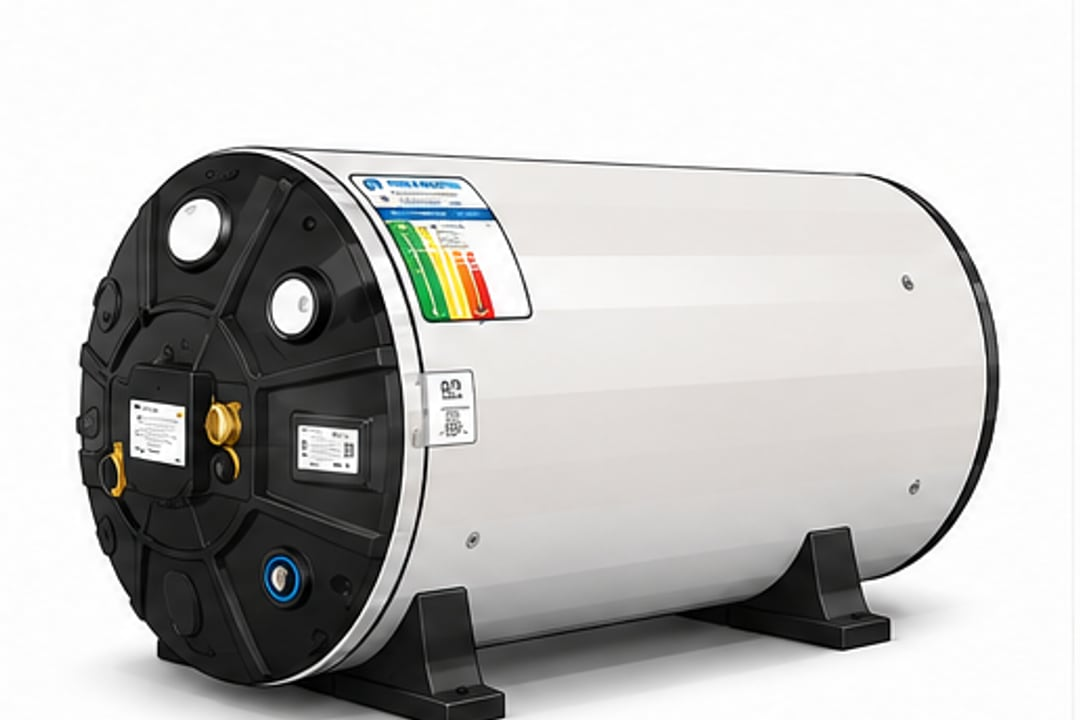
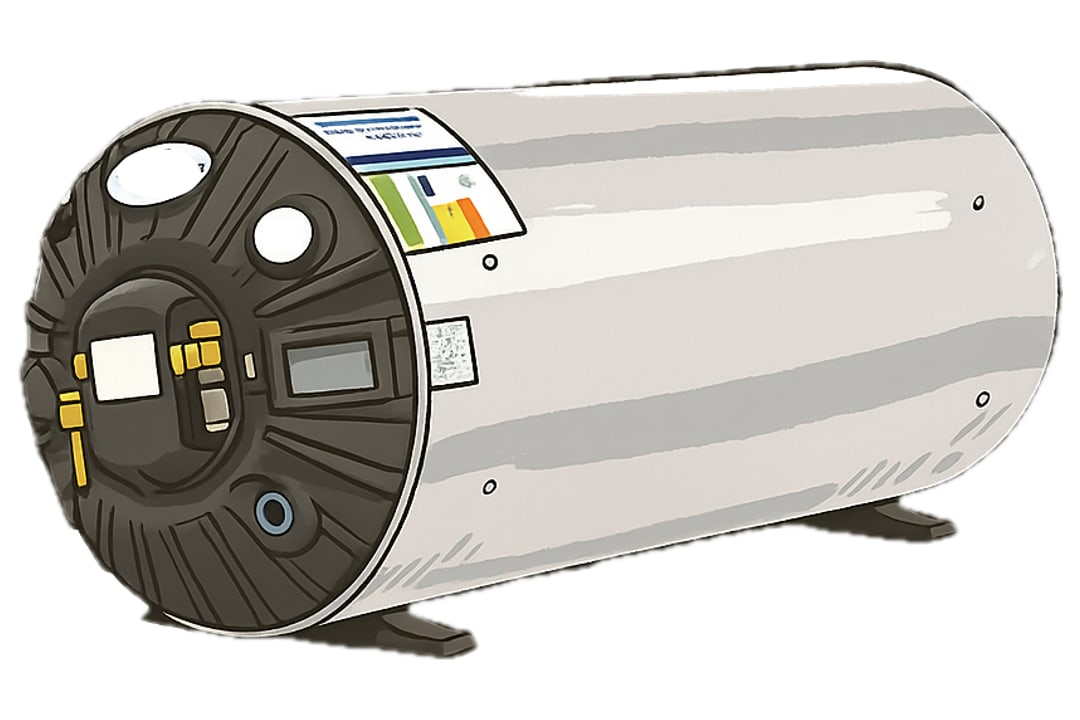
Cleanup30August2026
Geyser Replacement logos
home flow
Smart Geyser  pictures and details

diff --git a/design-export/website/GeyserReplacementsPage.jsx b/design-export/website/GeyserReplacementsPage.jsx
@@ -55,7 +55,7 @@ const GR_SLIDES = [
     label: 'Capacity',
     title: 'The right size, for the number of people who shower',
     body: 'Roughly 35 to 50 litres of hot water per person, and around 70% of South African homes run a 150 litre cylinder. Step 3 asks how many people shower, which is the same question the useful way round.',
-    alt: 'A horizontal electric hot water cylinder on mounting feet, with the element cover, thermostat access and energy rating label visible.'
+    alt: 'An electric hot water cylinder on mounting feet, showing the element cover plate, thermostat access and the energy rating label.'
   },
   {
     image: '/assets/illustrations/geyser-hero-2-pressure.jpg',
@@ -86,7 +86,7 @@ function GrCarousel() {
   React.useEffect(function () {
     if (paused) return;
     if (typeof window !== 'undefined' && window.matchMedia && window.matchMedia('(prefers-reduced-motion: reduce)').matches) return;
-    const t = setTimeout(function () { setI(function (v) { return (v + 1) % count; }); }, 6500);
+    const t = setTimeout(function () { setI(function (v) { return (v + 1) % count; }); }, 5200);
     return function () { clearTimeout(t); };
   }, [i, paused, count]);
 
@@ -100,7 +100,6 @@ function GrCarousel() {
   };
 
   return <div role="group" aria-roledescription="carousel" aria-label="Geyser sizing, pressure and the result"
-    onMouseEnter={function () { setPaused(true); }} onMouseLeave={function () { setPaused(false); }}
     onFocus={function () { setPaused(true); }} onBlur={function () { setPaused(false); }}
     style={{ background: '#fff', border: '1px solid rgba(255,255,255,.22)', borderRadius: 4, overflow: 'hidden' }}>
 
@@ -191,55 +190,46 @@ const GR_CAPACITIES = [50, 100, 150, 200, 250];
 const GR_HOUSEHOLD_FOR = { 50: '1 person', 100: '2 people', 150: '3 to 4 people', 200: '4 to 5 people', 250: '5 to 6 people' };
 const GR_HOUSEHOLD_STEPS = [1, 2, 3, 4, 5];
 
-/* Which cylinders exist for which system. A visitor who chose Solar must never
-   be shown a range we cannot supply for that configuration.
+/* The four cylinder brands Home Assist supplies, presented as equals.
 
-   RATINGS are Hello Peter TrustIndex scores read 30 August 2026, from one source
-   so they stay comparable. The footnote under the grid explains how to read
-   them — see the note in the section copy.
+   HELLO PETER RATINGS REMOVED, 30 August 2026. They were 2.6 and 2.5 — 0.1
+   apart, which differentiated nothing, and a bare 2.6 beside "we recommend this
+   one first" argued against our own recommendation. A complaint-weighted index
+   does that to any manufacturer with volume. If a service metric goes back on
+   these cards it should be one that supports the argument rather than
+   undercutting it — response rate would.
 
-   Nothing here fits 'heatpump'. That is deliberate rather than an omission: the
-   step shows an on-request panel instead of an empty grid. */
+   No lead-and-secondary tiering either. All four are cylinders we fit, they are
+   shown at the same size with their own logo, and 'Not sure' is a first-class
+   option rather than something a visitor has to work out how to skip. Most
+   people genuinely do not have a view on this, and forcing a choice they cannot
+   make is how a configurator gets abandoned three questions from the end. */
 const GR_BRANDS = [
   {
-    id: 'kwikot', name: 'Kwikot', tier: 'lead',
-    fits: ['electric', 'solar', 'gas'],
-    rating: '2.6', ratingSource: 'Hello Peter',
-    lead: 'Home Assist recommends Kwikot first.',
-    body: 'One of the most reliable cylinders in the South African market, and Home Assist holds a warranty capability on Kwikot that most installers do not — so a warranty claim on a unit we fitted is handled by us rather than passed back to you.'
+    id: 'kwikot', name: 'Kwikot',
+    logo: '/assets/logo/logo-kwikot.png',
+    covers: 'Electric, solar and gas',
+    body: 'One of the most established cylinders in the South African market. Home Assist holds a warranty capability on Kwikot that most installers do not, so a warranty claim on a unit we fitted is handled by us rather than passed back to you.'
   },
   {
-    id: 'ariston', name: 'Ariston', tier: 'lead',
-    fits: ['electric', 'solar', 'gas'],
-    rating: '2.5', ratingSource: 'Hello Peter',
-    note: 'Ariston is the new name for Heat Tech — same manufacturer.',
-    body: 'An established range across electric, solar and gas water heating in South Africa. Widely stocked, so a same-day replacement is usually possible on the common capacities.'
+    id: 'ariston', name: 'Ariston',
+    logo: '/assets/logo/logo-ariston.png',
+    covers: 'Electric, solar and gas',
+    note: 'The new name for Heat Tech — same manufacturer.',
+    body: 'A wide range across electric, solar and gas water heating, and widely stocked, so a same-day replacement is usually possible on the common capacities.'
   },
   {
-    id: 'kwiksol', name: 'Kwiksol', tier: 'other',
-    fits: ['solar'],
-    rating: 'See Kwikot', ratingSource: 'Hello Peter',
-    body: 'Kwikot’s solar range. Shown because you selected a solar system.'
-  },
-  {
-    id: 'tecron', name: 'Tecron', tier: 'other',
-    fits: ['electric', 'solar'],
-    rating: 'Not listed', ratingSource: 'Hello Peter',
+    id: 'tecron', name: 'Tecron',
+    logo: '/assets/logo/logo-tecron.png',
+    covers: 'Electric and solar',
     note: 'Manufactured in Cape Town.',
     body: 'Copper hot water cylinders built to SABS specification, in standard, slimline, square, point-of-use and solar ranges. A local manufacturer, which can mean a shorter lead time on an unusual size.'
   },
   {
-    id: 'builders-pride', name: 'Builders Pride', tier: 'other',
-    fits: ['electric'],
-    rating: 'Not listed', ratingSource: 'Hello Peter',
-    note: 'Retailed through Builders Warehouse.',
-    body: 'SABS approved with a five-year warranty. Worth knowing if you are comparing a Builders quote against ours, because the cylinder is rarely the variable — the installation is.'
-  },
-  {
-    id: 'xtreme', name: 'Xtreme', tier: 'other',
-    fits: ['electric'],
-    rating: 'Not listed', ratingSource: 'Hello Peter',
-    body: 'A smaller Western Cape manufacturer. Available on request where stock and lead time suit the job.'
+    id: 'xstream', name: 'Xstream',
+    logo: '/assets/logo/logo-xstream.png',
+    covers: 'Electric',
+    body: 'Hot water cylinders from Mainstream. A straightforward, well-priced unit for a standard high pressure replacement where the job does not call for anything unusual.'
   }
 ];
 
@@ -310,7 +300,6 @@ function GeyserReplacementsPage({ go }) {
   const [access, setAccess] = React.useState('');
   const [capacity, setCapacity] = React.useState(150);
   const [brand, setBrand] = React.useState('');
-  const [showOther, setShowOther] = React.useState(false);
   const [showDiagnostic, setShowDiagnostic] = React.useState(false);
   const [sent, setSent] = React.useState(false);
   const [manualLink, setManualLink] = React.useState('');
@@ -347,12 +336,10 @@ function GeyserReplacementsPage({ go }) {
     } catch (e) { /* private browsing, or storage disabled — the page still works */ }
   }, [ready, systemType, pressure, position, access, capacity, brand]);
 
-  /* A selection that no longer exists for the chosen system is cleared rather
-     than left showing a specification we cannot supply. */
+  /* Heat pump is the one system with no cylinder list, so a brand chosen before
+     switching to it would leave a specification we cannot supply. */
   React.useEffect(function () {
-    if (!systemType || !brand) return;
-    const chosen = GR_BRANDS.find(function (b) { return b.id === brand; });
-    if (chosen && chosen.fits.indexOf(systemType) === -1) setBrand('');
+    if (systemType === 'heatpump' && brand) setBrand('');
   }, [systemType, brand]);
 
   /* Pressure is a property of an electric installation. Choosing solar or gas
@@ -366,12 +353,7 @@ function GeyserReplacementsPage({ go }) {
     grTrack('geyser_step_complete', { step: stepLabel, field: field, value: String(value) });
   }
 
-  const visibleBrands = GR_BRANDS.filter(function (b) {
-    return !systemType || b.fits.indexOf(systemType) !== -1;
-  });
-  const leadBrands = visibleBrands.filter(function (b) { return b.tier === 'lead'; });
-  const otherBrands = visibleBrands.filter(function (b) { return b.tier === 'other'; });
-  const noBrandsForSystem = systemType && visibleBrands.length === 0;
+  const noBrandsForSystem = systemType === 'heatpump';
 
   const spec = {
     systemType: systemType ? grLabelFor(GR_SYSTEMS, systemType) : '',
@@ -380,7 +362,7 @@ function GeyserReplacementsPage({ go }) {
     access: access ? grLabelFor(GR_ACCESS, access) : '',
     capacity: capacity + ' L',
     household: GR_HOUSEHOLD_FOR[capacity],
-    brand: brand ? (GR_BRANDS.find(function (b) { return b.id === brand; }) || {}).name : ''
+    brand: brand === 'unsure' ? 'Not sure — recommend one' : (brand ? (GR_BRANDS.find(function (b) { return b.id === brand; }) || {}).name : '')
   };
 
   const answered = ['systemType', 'pressure', 'position', 'access', 'brand'].filter(function (k) { return spec[k]; }).length + 1;
@@ -660,56 +642,61 @@ function GeyserReplacementsPage({ go }) {
 
             {/* Step 4 — brand */}
             <GrStep n="4" label="Brand" title="Choose your cylinder"
-              intro={systemType ? 'Showing only cylinders that exist for a ' + String(spec.systemType).toLowerCase() + ' system.' : 'Choose a system type above and this list narrows to the cylinders we can actually supply for it.'}>
+              intro="Four cylinders we fit and support. If you have no view on this — and most people do not — say so and we will recommend one for your system and capacity.">
 
               {noBrandsForSystem ? <div style={{ ...CARD, background: 'var(--web-blue-050)', border: '1px solid var(--web-blue-100)', marginTop: 18 }}>
                 <div style={{ ...LABEL, marginBottom: 8 }}>Quoted on request</div>
                 <p style={{ ...BODY, margin: 0 }}>We do not hold a standard heat pump range on the shelf the way we do cylinders, because the unit has to be matched to the household and to where the outdoor unit can physically go. Finish the rest of the specification and send it — we will come back with options rather than guess at one here.</p>
               </div> : <React.Fragment>
                 <div style={{ display: 'grid', gridTemplateColumns: 'repeat(2, 1fr)', gap: 16, marginTop: 18 }}>
-                  {leadBrands.map(function (b) {
-                    return <div key={b.id} style={{ ...CARD, borderLeft: brand === b.id ? '3px solid var(--web-blue)' : '1px solid var(--web-grey-100)', background: brand === b.id ? 'var(--web-blue-050)' : '#fff' }}>
-                      <div style={{ display: 'flex', justifyContent: 'space-between', alignItems: 'flex-start', gap: 12 }}>
-                        <div>
-                          <h4 style={{ ...H3, margin: 0, fontSize: 20 }}>{b.name}</h4>
-                          {b.lead ? <div style={{ ...LABEL, color: 'var(--web-blue)', marginTop: 6 }}>{b.lead}</div> : null}
-                        </div>
-                        <div style={{ textAlign: 'right', flex: '0 0 auto' }}>
-                          <div style={{ font: '700 20px/1 var(--font-core)', color: 'var(--web-navy)' }}>{b.rating}</div>
-                          <div style={{ ...SMALL, fontSize: 11 }}>{b.ratingSource}</div>
-                        </div>
-                      </div>
-                      {b.note ? <p style={{ ...SMALL, color: 'var(--web-blue)', margin: '10px 0 0' }}>{b.note}</p> : null}
-                      <p style={{ ...BODY, margin: '12px 0 16px', fontSize: 14 }}>{b.body}</p>
-                      <Button variant={brand === b.id ? 'navy' : 'secondary'} fullWidth
-                        onClick={function () { choose('brand', setBrand, b.id, 'brand'); }}>{brand === b.id ? 'Selected' : 'Choose ' + b.name}</Button>
-                    </div>;
+                  {GR_BRANDS.map(function (b) {
+                    const on = brand === b.id;
+                    return <button key={b.id} type="button" aria-pressed={on}
+                      onClick={function () { choose('brand', setBrand, b.id, 'brand'); }}
+                      style={{ ...CARD, textAlign: 'left', cursor: 'pointer', font: 'inherit', width: '100%', boxSizing: 'border-box',
+                        display: 'flex', flexDirection: 'column',
+                        background: on ? 'var(--web-blue-050)' : '#fff',
+                        border: '1px solid ' + (on ? 'var(--web-blue)' : 'var(--web-grey-100)'),
+                        borderLeft: on ? '3px solid var(--web-blue)' : '1px solid var(--web-grey-100)' }}>
+
+                      {/* A fixed logo band, so a tall stacked mark and a wide
+                          horizontal one still occupy the same space and the four
+                          brands read as equals. */}
+                      <span style={{ display: 'flex', alignItems: 'center', justifyContent: 'flex-start', height: 54, marginBottom: 14 }}>
+                        <img src={b.logo} alt={b.name} style={{ maxHeight: 48, maxWidth: 170, width: 'auto', height: 'auto', display: 'block' }} />
+                      </span>
+
+                      <span style={{ display: 'flex', justifyContent: 'space-between', alignItems: 'baseline', gap: 10 }}>
+                        <span style={{ font: '700 19px/1.2 var(--font-core)', color: 'var(--web-navy)' }}>{b.name}</span>
+                        <span style={{ ...LABEL, fontSize: 10, color: 'var(--web-grey-500)' }}>{b.covers}</span>
+                      </span>
+                      {b.note ? <span style={{ display: 'block', ...SMALL, color: 'var(--web-blue)', marginTop: 6 }}>{b.note}</span> : null}
+                      <span style={{ display: 'block', ...BODY, margin: '10px 0 0', fontSize: 14 }}>{b.body}</span>
+
+                      <span style={{ display: 'flex', alignItems: 'center', gap: 8, marginTop: 'auto', paddingTop: 16 }}>
+                        <Icon name={on ? 'check' : 'plus'} size={16} color={on ? 'var(--web-blue)' : 'var(--web-grey-500)'} />
+                        <span style={{ ...LABEL, color: on ? 'var(--web-blue)' : 'var(--web-grey-500)' }}>{on ? 'Selected' : 'Choose ' + b.name}</span>
+                      </span>
+                    </button>;
                   })}
                 </div>
 
-                <p style={{ ...SMALL, marginTop: 12 }}>Ratings are Hello Peter TrustIndex scores read in August 2026, shown for both brands from the same source so they are comparable. Hello Peter is weighted towards complaints, so read them as a like-for-like comparison rather than as a score out of ten — both major manufacturers sit in the same band, which is the honest answer and the reason we do not choose a cylinder on this number.</p>
-
-                {otherBrands.length ? <div style={{ marginTop: 16 }}>
-                  <button type="button" onClick={function () { setShowOther(!showOther); }} aria-expanded={showOther}
-                    style={{ background: 'none', border: 0, padding: '12px 0', cursor: 'pointer', color: 'var(--web-blue)', font: '600 15px/1.4 var(--font-core)', display: 'flex', alignItems: 'center', gap: 8, minHeight: 'var(--web-tap-min)' }}>
-                    <Icon name={showOther ? 'chevron-up' : 'chevron-down'} size={16} color="var(--web-blue)" />
-                    {showOther ? 'Hide other options' : 'Other options (' + otherBrands.length + ')'}
-                  </button>
-                  {showOther ? <div style={{ display: 'grid', gridTemplateColumns: 'repeat(2, 1fr)', gap: 12 }}>
-                    {otherBrands.map(function (b) {
-                      return <div key={b.id} style={{ ...CARD, padding: 18, background: brand === b.id ? 'var(--web-blue-050)' : 'var(--web-grey-050)' }}>
-                        <div style={{ display: 'flex', justifyContent: 'space-between', gap: 10 }}>
-                          <h4 style={{ ...H3, margin: 0, fontSize: 17 }}>{b.name}</h4>
-                          <span style={{ ...SMALL, fontSize: 11, textAlign: 'right' }}>{b.rating}<br />{b.ratingSource}</span>
-                        </div>
-                        {b.note ? <p style={{ ...SMALL, color: 'var(--web-blue)', margin: '8px 0 0' }}>{b.note}</p> : null}
-                        <p style={{ ...BODY, margin: '10px 0 12px', fontSize: 14 }}>{b.body}</p>
-                        <Button size="sm" variant={brand === b.id ? 'navy' : 'secondary'} fullWidth
-                          onClick={function () { choose('brand', setBrand, b.id, 'brand'); }}>{brand === b.id ? 'Selected' : 'Choose ' + b.name}</Button>
-                      </div>;
-                    })}
-                  </div> : null}
-                </div> : null}
+                {/* Not sure is an answer, not a skip. It is stored and it is
+                    carried into the WhatsApp message, so the person who picks it
+                    up knows to recommend rather than to confirm. */}
+                <button type="button" aria-pressed={brand === 'unsure'}
+                  onClick={function () { choose('brand', setBrand, 'unsure', 'brand'); }}
+                  style={{ marginTop: 14, width: '100%', boxSizing: 'border-box', cursor: 'pointer', font: 'inherit', textAlign: 'left',
+                    minHeight: 'var(--web-tap-min)', padding: '16px 20px', borderRadius: 4,
+                    background: brand === 'unsure' ? 'var(--web-blue-050)' : 'var(--web-grey-050)',
+                    border: '1px solid ' + (brand === 'unsure' ? 'var(--web-blue)' : 'var(--web-grey-300)'),
+                    display: 'flex', alignItems: 'center', gap: 12 }}>
+                  <Icon name={brand === 'unsure' ? 'check' : 'info'} size={18} color={brand === 'unsure' ? 'var(--web-blue)' : 'var(--web-navy)'} />
+                  <span>
+                    <span style={{ display: 'block', font: '600 16px/1.3 var(--font-core)', color: 'var(--web-navy)' }}>Not sure — recommend one for me</span>
+                    <span style={{ display: 'block', ...SMALL, marginTop: 2 }}>We will match it to your system type, capacity and what is in stock today.</span>
+                  </span>
+                </button>
               </React.Fragment>}
 
               {/* The most important trust copy on the page. */}
